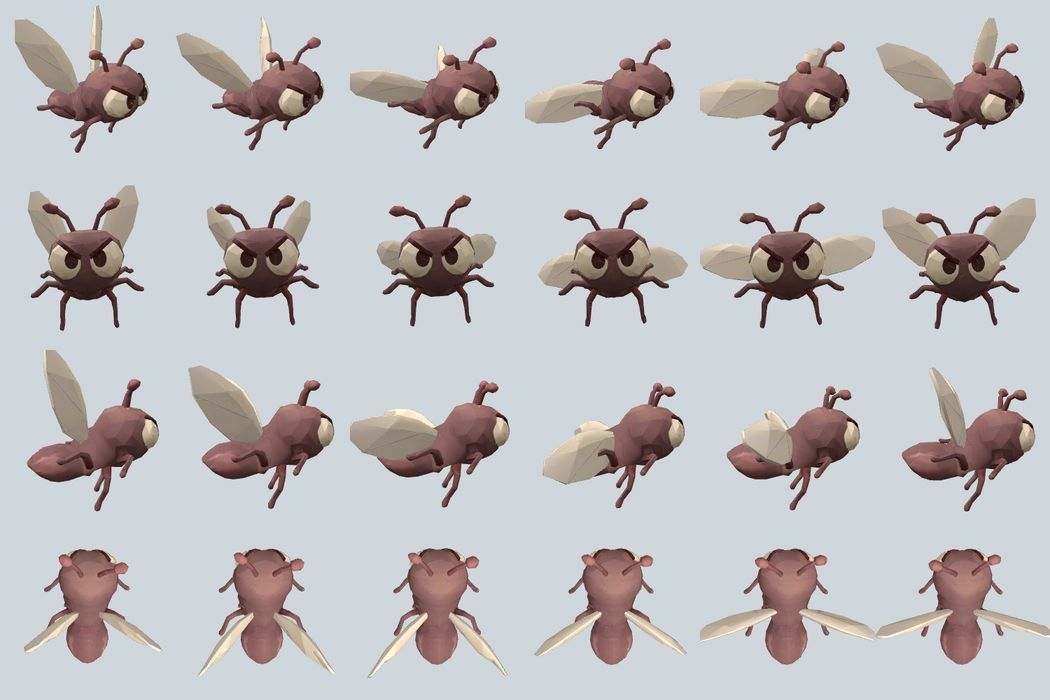
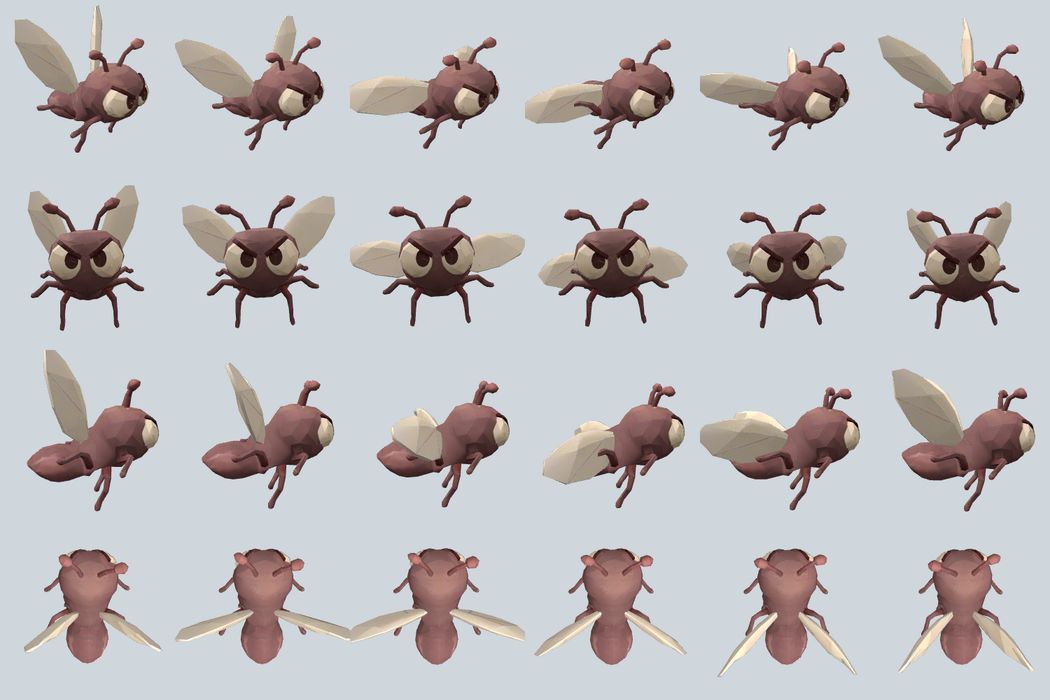
fix: battement d'ailes du moucheron dans le sens du vol avant (v259)
L'aile reculait pendant la descente, ce qui donnait l'impression que le
moucheron volait à reculons. Le balayage et la torsion sont inversés :
l'aile avance en descendant et recule en remontant. Test de régression
sur le sens de la boucle décrite par la pointe de l'aile.

Claude-Session: https://claude.ai/code/session_01LiDeVaSdRp6yXKqa5DxLA3

diff --git a/src/midge-model.js b/src/midge-model.js
@@ -133,13 +133,14 @@ export function flightPose(T, t) {
   const e = (x, y, z, order = 'XYZ') =>
     new T.Quaternion().setFromEuler(new T.Euler(x, y, z, order));
   const pose = {};
-  // Stroke: cos = 1 at the top. The wing sweeps forward on the downstroke and
-  // back on the upstroke, and pitches (twists about its span) at the turns,
-  // so the tip draws a figure of eight seen from the side.
+  // Stroke: cos = 1 at the top. `sweep` is the angle behind the lateral axis:
+  // the wing moves forward during the downstroke (sin > 0) and back on the
+  // upstroke, pushing air backwards (forward flight), and pitches (twists
+  // about its span) at the turns, so the tip draws a figure of eight.
   const stroke = Math.cos(beat);
   const elevation = F.wingDown + ((F.wingUp - F.wingDown) * (1 + stroke)) / 2;
-  const sweep = F.wingSweep + F.wingSweepRange * Math.sin(beat);
-  const twist = F.wingTwist * Math.sin(beat);
+  const sweep = F.wingSweep - F.wingSweepRange * Math.sin(beat);
+  const twist = -F.wingTwist * Math.sin(beat);
   for (const [k, name] of MIDGE_BONES.wings.entries()) {
     const s = k ? -1 : 1;
     const direction = new T.Vector3(

diff --git a/src/changelog.js b/src/changelog.js
@@ -1,7 +1,7 @@
 // Quelques étapes marquantes, rédigées pour les joueurs. Pas un journal technique.
 export const PLAYER_CHANGELOG = [
   {
-    version: 258,
+    version: 259,
     changes: [
       'Les moucherons ont un nouveau look : de petites mouches à l’air furieux.',
       'En vol, ils battent des ailes, laissent pendre leurs pattes et remuent les antennes.',
